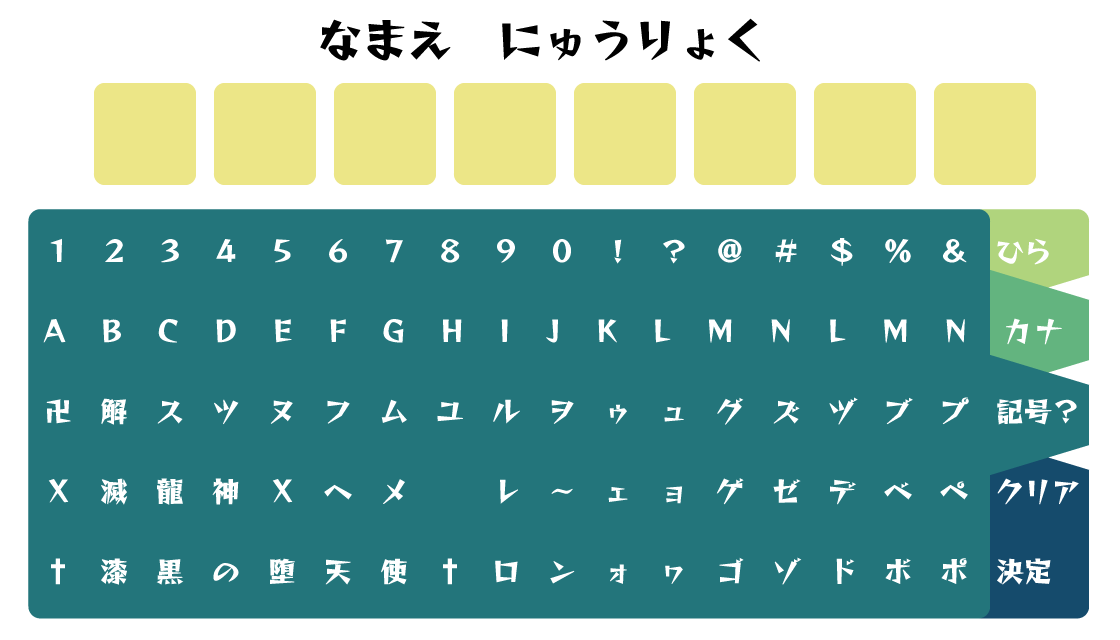
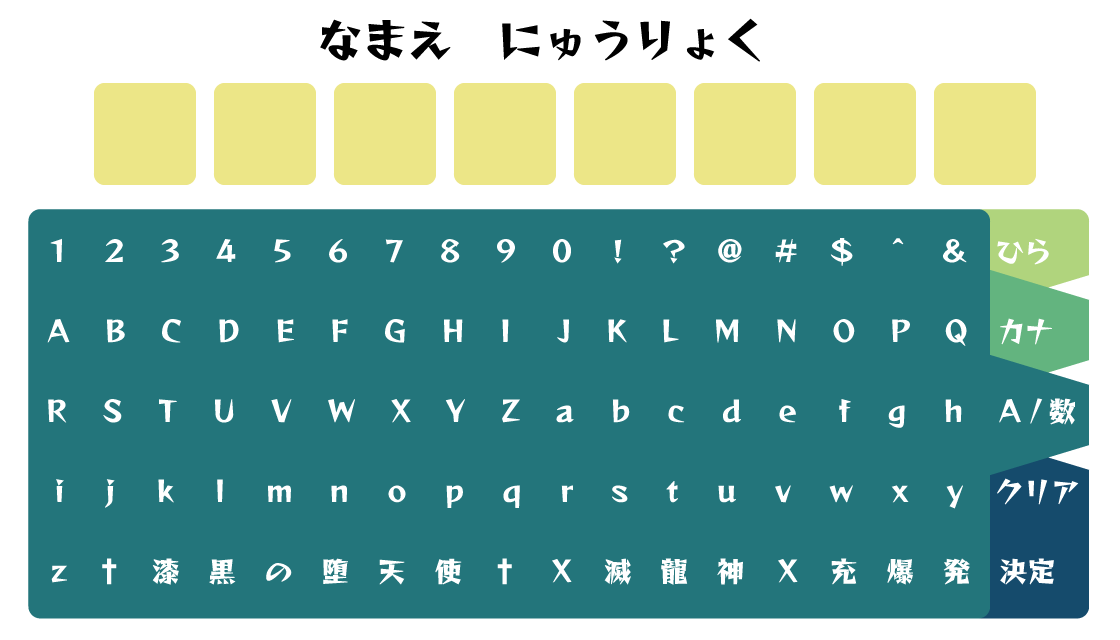
記号部分追加中

diff --git a/src/arcircle/ftsim/state/inputname/InputNameModel.java b/src/arcircle/ftsim/state/inputname/InputNameModel.java
@@ -34,11 +34,11 @@ public class InputNameModel implements KeyListner {
 			{'オ','コ','ソ','ト','ノ','ホ','モ','ヨ','ロ','ン','ォ','ヮ','ゴ','ゾ','ド','ボ','ポ','〇'}
 			},
 			{
-			{'漆','黒','の','堕','天','使','ま','や','ら','わ','ぁ','っ','が','ざ','だ','ば','ぱ','ー'},
-			{'†','虚','空','骸','懺','ひ','み','　','り','　','ぃ','ゃ','ぎ','じ','ぢ','び','ぴ','～'},
-			{'う','く','す','つ','ぬ','ふ','む','ゆ','る','を','ぅ','ゅ','ぐ','ず','づ','ぶ','ぷ','〇'},
+			{'１','２','３','４','５','５','６','７','８','９','０','！','？','＠','＃','＄','＾','＆','〇'},
+			{'Ａ','Ｂ','Ｃ','Ｄ','Ｅ','Ｆ','Ｇ','Ｈ','Ｉ','Ｊ','Ｋ','Ｌ','Ｍ','Ｎ','Ｏ','Ｐ','Ｑ','〇'},
+			{'Ｒ','Ｓ','Ｔ','Ｕ','Ｖ','Ｗ','Ｘ','Ｙ','Ｚ','ａ','ｂ','ｃ','ｄ','ｅ','ｆ','ｇ','ｈ','〇'},
 			{'え','け','せ','て','ね','へ','め','　','れ','　','ぇ','ょ','げ','ぜ','で','べ','ぺ','〇'},
-			{'お','こ','そ','と','の','ほ','も','よ','ろ','ん','ぉ','ゎ','ご','ぞ','ど','ぼ','ぽ','〇'}
+			{'ｚ','㍿','漆','黒','の','堕','天','使','†','卍','滅','龍','神','Ｘ','充','爆','発','〇'}
 			}
 	};
 
@@ -97,8 +97,8 @@ public class InputNameModel implements KeyListner {
 	 * カーソルの位置charactorOption,CursorY,CursorXから文字に変換し、String charactorに8文字まで累加算する
 	 */
 	public void addGetCharFromCursor(){
-		if(charactor.length()>=16){return;}				//名前は8文字まで
-		charactor = charactor + cursorchar[charactorOption][CursorY][CursorX] + " " ;
+		if(charactor.length()>=24){return;}				//名前は8文字まで
+		charactor = charactor + cursorchar[charactorOption][CursorY][CursorX] + "  " ;
 		return;
 	}
 

diff --git a/src/arcircle/ftsim/state/inputname/InputNameView.java b/src/arcircle/ftsim/state/inputname/InputNameView.java
@@ -67,12 +67,12 @@ public class InputNameView implements Renderer {
 		case 2: g.drawImage(InputNameKigou , 0, 0); break;
 		}
 
-		g.drawImage(NameCursor, 20+inModel.CursorX*56,  212 + inModel.CursorY*80);
+		g.drawImage(NameCursor, 22+inModel.CursorX*56,  216 + inModel.CursorY*80);
 		//g.drawImage(inState.sprite[0], 22+inModel.CursorX*56,  220 + inModel.CursorY*80);
 
-		int messageWidth = inState.getFont().getWidth(inModel.message);
+		//int messageWidth = inState.getFont().getWidth(inModel.message);
 
-		g.drawString(inModel.getName(), (FTSimulationGame.WIDTH/12), 68);
+		g.drawString(inModel.getName(), (FTSimulationGame.WIDTH/11), 73);
 	}
 }
 

diff --git a/src/arcircle/JapaneseFont/InputNameFontGenerater.java b/src/arcircle/JapaneseFont/InputNameFontGenerater.java
@@ -41,9 +41,13 @@ public class InputNameFontGenerater {
 			font.addAsciiGlyphs();
 
 			// Hiragana + katakanab + fullwidth punctuations
-			font.addGlyphs(0x3000, 0x30ff);
+			//font.addGlyphs(0x3000, 0x30ff);
 			// Kanji
-			font.addGlyphs(0x4e00, 0x9fc0);
+			//font.addGlyphs(0x4e00, 0x9fc0);
+			//
+			font.addGlyphs("漆黒の");
+
+
 
 			// おまじない
 			font.getEffects().add(new ColorEffect(java.awt.Color.WHITE));

diff --git a/src/arcircle/ftsim/main/FTSimulationGame.java b/src/arcircle/ftsim/main/FTSimulationGame.java
@@ -41,6 +41,6 @@ public class FTSimulationGame extends StateBasedGame {
 
 		//コンストラクタで実行するとエラー発生するよー
 		font = JapaneseFontGenerater.generateFont(24, false, false, null);
-		InputNamefont = JapaneseFontGenerater.generateFont(88, false, false, null);
+		InputNamefont = JapaneseFontGenerater.generateFont(76, false, false, null);
 	}
 }

diff --git a/src/arcircle/JapaneseFont/JapaneseFontGenerater.java b/src/arcircle/JapaneseFont/JapaneseFontGenerater.java
@@ -44,6 +44,12 @@ public class JapaneseFontGenerater {
 			font.addGlyphs(0x3000, 0x30ff);
 			// Kanji
 			font.addGlyphs(0x4e00, 0x9fc0);
+			
+			font.addGlyphs(0x337e, 0x337f);
+			
+			font.addGlyphs(0xff00, 0xff60);
+
+			font.addGlyphs("†");
 
 			// おまじない
 			font.getEffects().add(new ColorEffect(java.awt.Color.WHITE));

diff --git a/src/arcircle/ftsim/state/InputNameState.java b/src/arcircle/ftsim/state/InputNameState.java
@@ -28,6 +28,7 @@ public class InputNameState extends KeyInputState {
 				new FadeInTransition(Color.black, 500));
 	}
 
+
 	@Override
 	public void enter(GameContainer container, StateBasedGame game)
 			throws SlickException {
